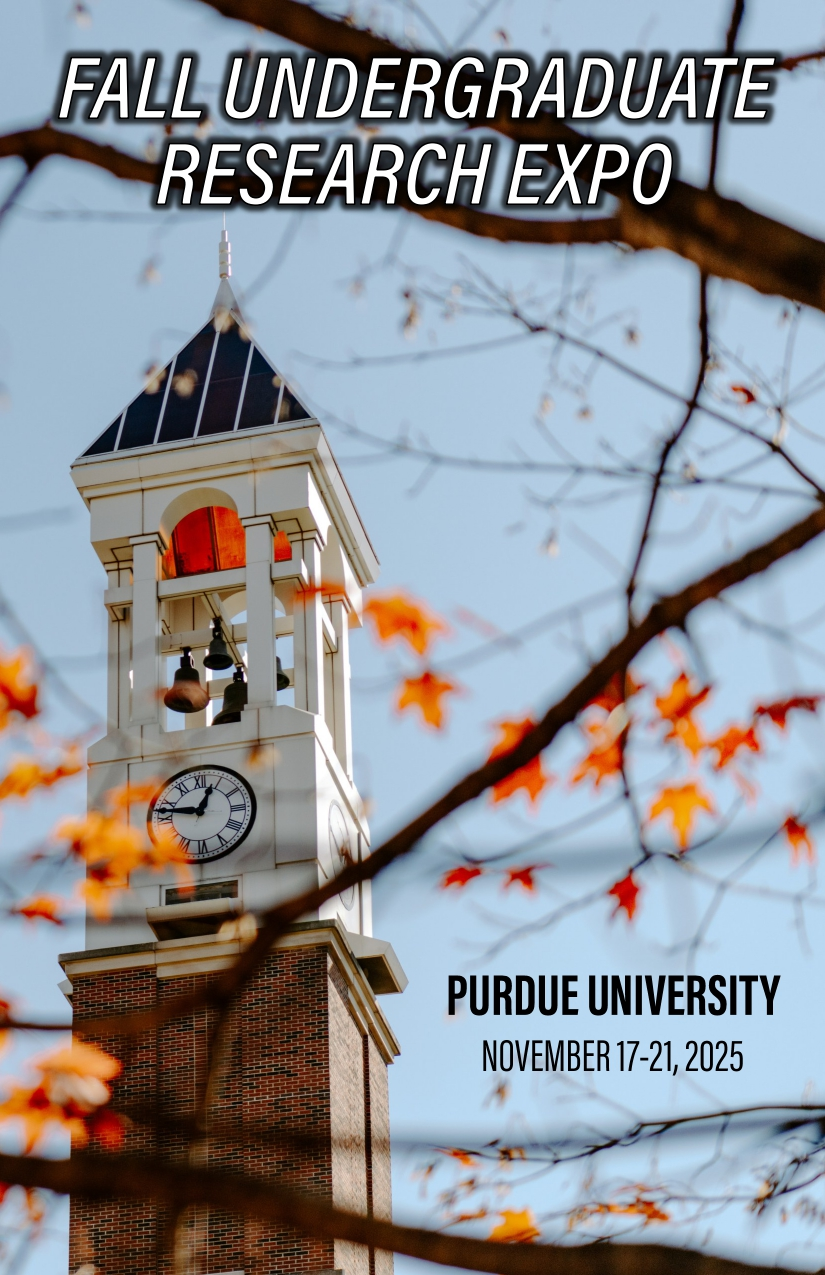
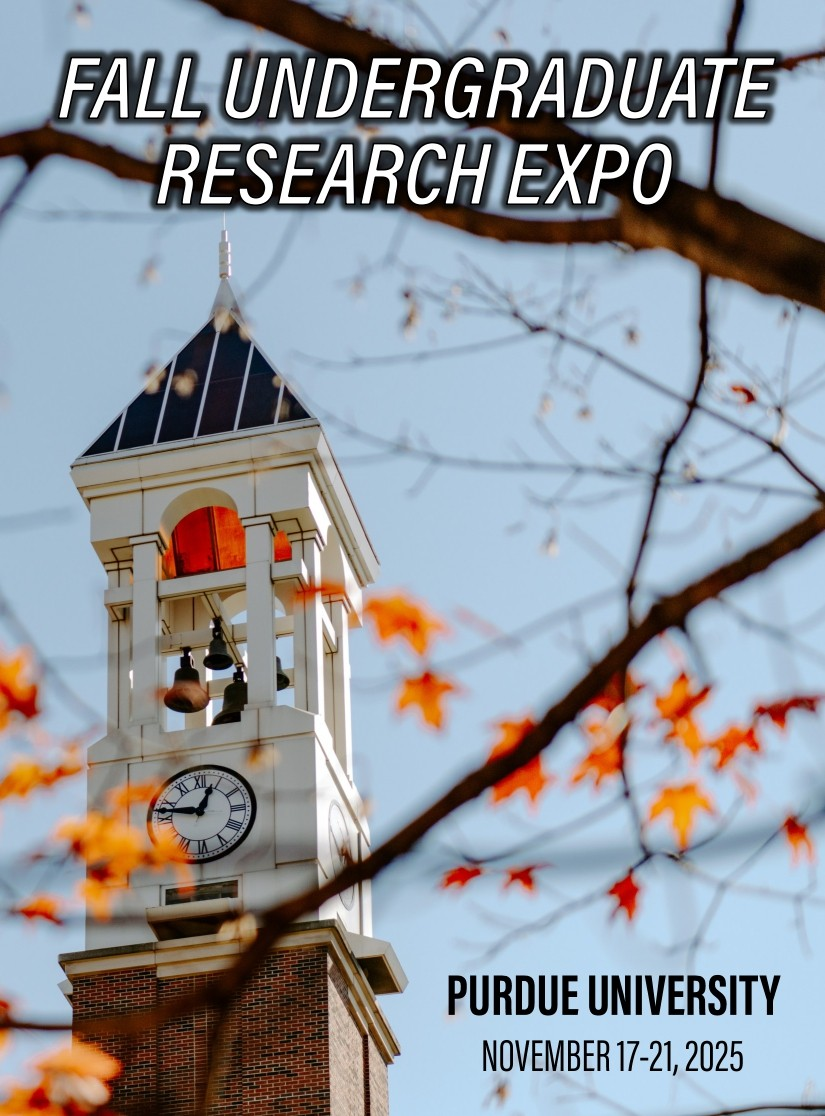
final push

diff --git a/css/chekhov.css b/css/chekhov.css
@@ -305,7 +305,9 @@ strong {
 
 @media (max-width: 768px) {
     .symposium-block { grid-template-columns: 1fr; gap: 2rem; padding: 2rem; }
-    .symposium-badge { width: 100%; aspect-ratio: 3/4; }
+    .symposium-badge { 
+        width: 100%; 
+    }
 }
 
 /* BUTTONS */
@@ -737,7 +739,6 @@ strong {
 
 .symposium-badge {
     width: 100%; 
-    aspect-ratio: 3/4; 
     border: 1px solid rgba(232,213,181,0.2);
     overflow: hidden;
     flex-shrink: 0;
